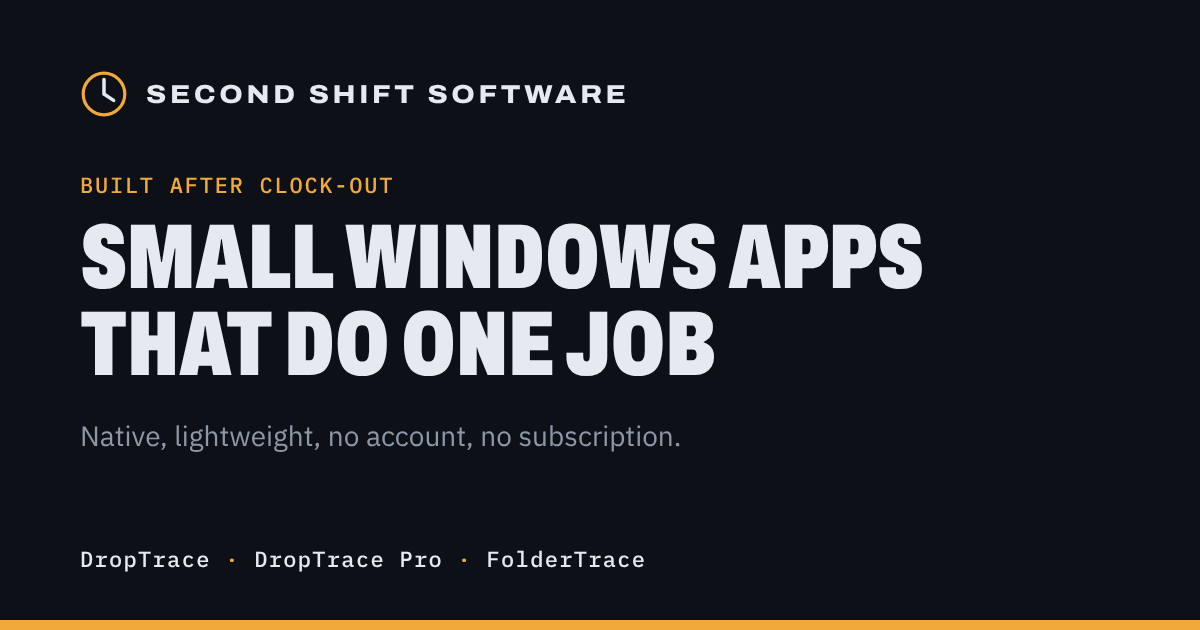
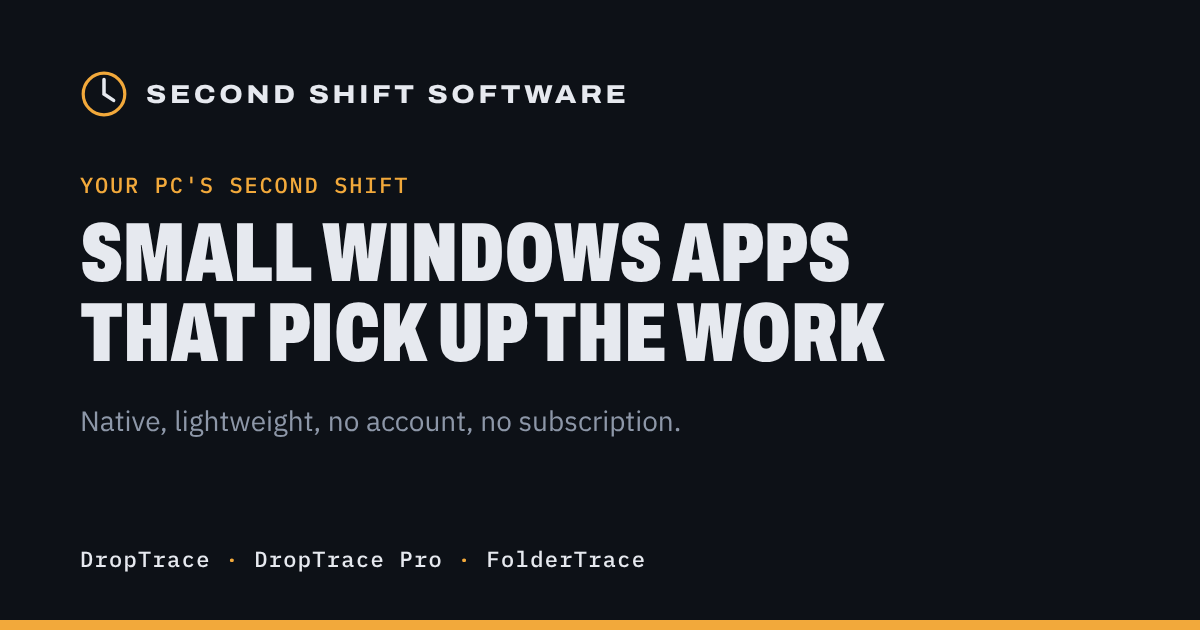
Reposition: your PC's second shift

Changed region(s): [[0.0617, 0.2714, 0.7708, 0.6032], [0.0617, 0.6333, 0.5858, 0.7238]]

diff --git a/index.html b/index.html
@@ -17,7 +17,7 @@
 <meta property="og:image" content="https://secondshift.software/img/og.png">
 <meta property="og:image:width" content="1200">
 <meta property="og:image:height" content="630">
-<meta property="og:image:alt" content="Second Shift Software: small Windows apps that do one job">
+<meta property="og:image:alt" content="Second Shift Software: your PC's second shift">
 <meta name="twitter:card" content="summary_large_image">
 <link rel="preconnect" href="https://fonts.googleapis.com">
 <link rel="preconnect" href="https://fonts.gstatic.com" crossorigin>
@@ -238,9 +238,9 @@ footer .wrap { display: flex; flex-wrap: wrap; justify-content: space-between; g
 <main id="top">
   <div class="wrap hero">
     <div class="hero-copy">
-      <p class="stamp">Built after clock-out</p>
-      <h1>Small Windows apps that <em>do one job</em> and stay out of your way.</h1>
-      <p class="lede">Native, lightweight tools made by one developer on the night shift. No browser engine running underneath, no account to sign up for, and no subscription.</p>
+      <p class="stamp">Your PC's second shift</p>
+      <h1>Small Windows apps that <em>pick up the work</em> you don't have time for.</h1>
+      <p class="lede">Some keep watch in the background, some dig through the mess for you, and all of them show you the evidence. No browser engine running underneath, no account to sign up for, and no subscription.</p>
       <div class="actions">
         <a class="btn primary" href="https://apps.microsoft.com/detail/9P0S0B1RCX70">Get DropTrace free</a>
         <a class="btn" href="#apps">See all apps</a>
@@ -331,8 +331,8 @@ footer .wrap { display: flex; flex-wrap: wrap; justify-content: space-between; g
     <div class="wrap support">
       <div>
         <p class="label">Support the work</p>
-        <h2>Made by one person between shifts</h2>
-        <p>If DropTrace helped you get your internet fixed, or FolderTrace cleared out a few gigs, a coffee keeps the next app coming.</p>
+        <h2>Keep the next app coming</h2>
+        <p>Second Shift is independent, with no ads and no investors. If DropTrace helped you get your internet fixed, or FolderTrace cleared out a few gigs, a tip on Ko-fi goes straight into the next app.</p>
         <p class="mail">Need help with an app? Email <a href="mailto:support@secondshift.software">support@secondshift.software</a>.<br>For anything else, reach me at <a href="mailto:contact@secondshift.software">contact@secondshift.software</a>.</p>
       </div>
       <div class="actions">
